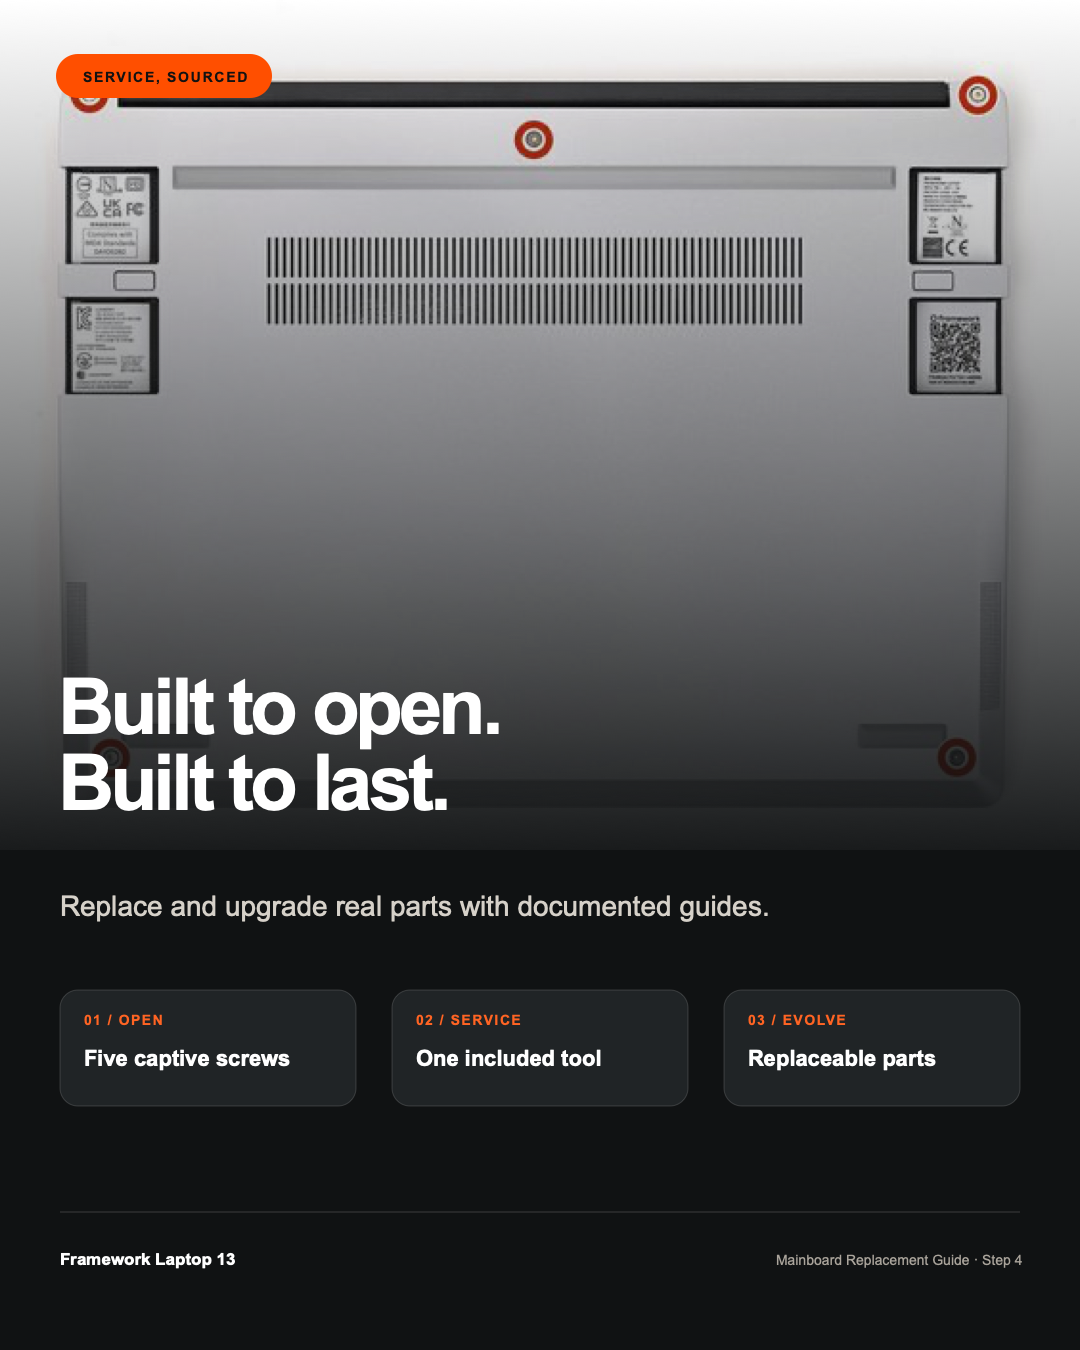
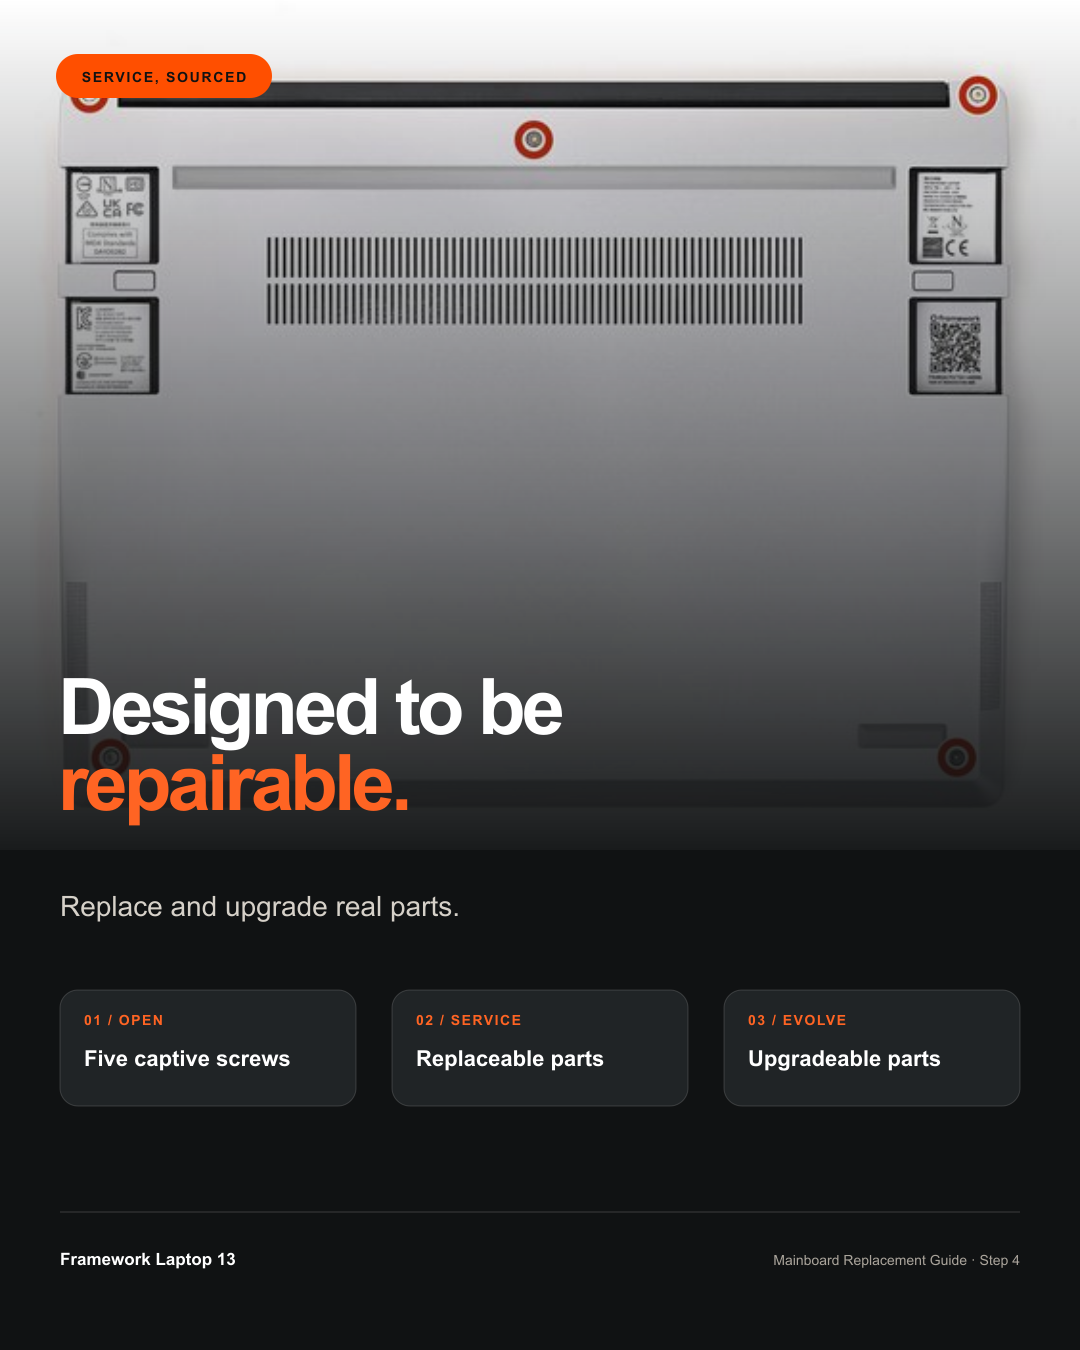
Fix Framework benchmark claim gate

diff --git a/benchmarks/creative-quality-v1/concepts/framework-laptop-13.md b/benchmarks/creative-quality-v1/concepts/framework-laptop-13.md
@@ -88,9 +88,9 @@ Repairability becomes credible when the real internal system and service action 
 
 ### Copy hierarchy
 
-1. **Built to open. Built to last.**
-2. Replace and upgrade real parts with documented guides.
-3. One sourced service fact or guide title.
+1. **Designed to be repairable.**
+2. Replace and upgrade real parts.
+3. Sourced service facts or a guide title.
 
 ### Composition
 
